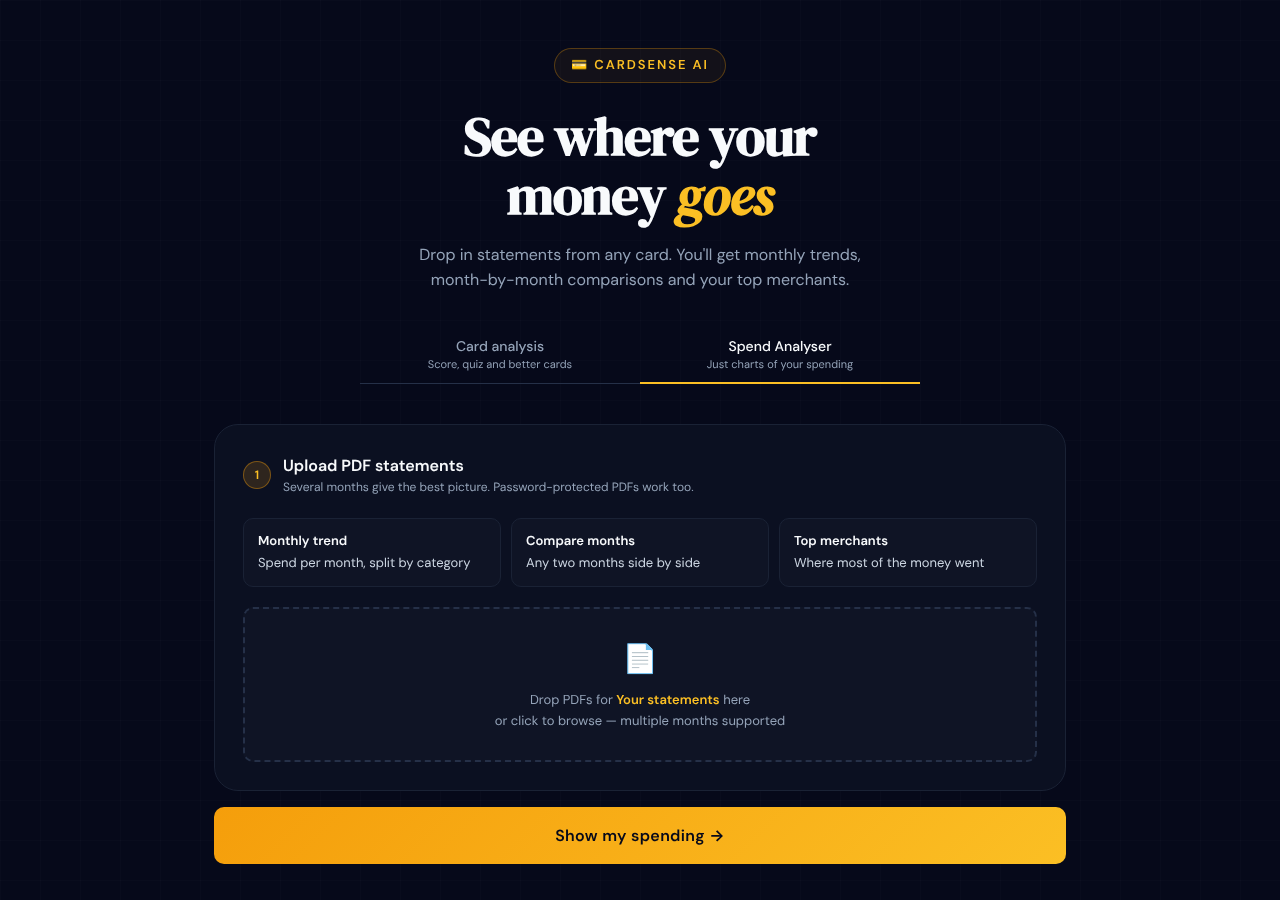
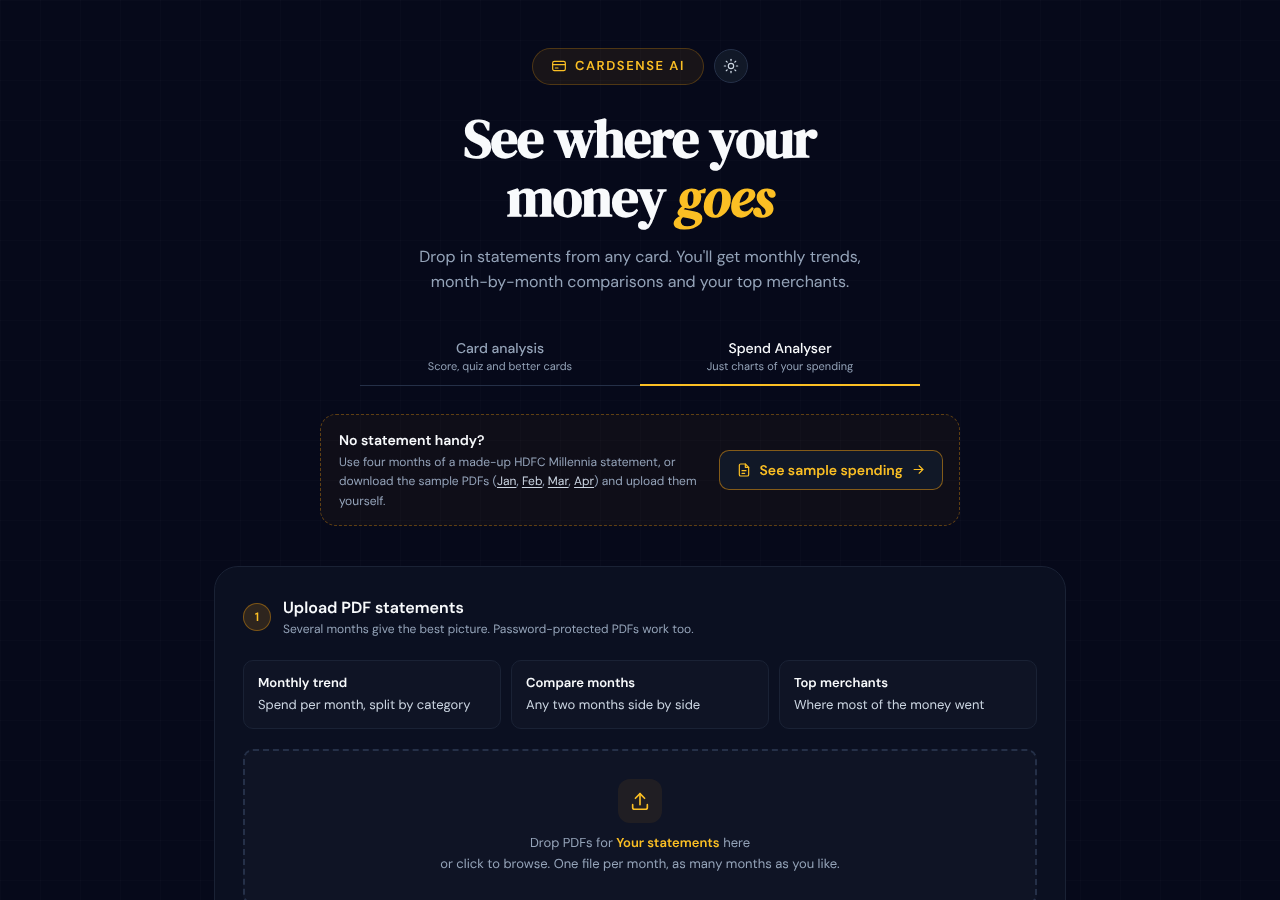
Refresh README demo GIF and screenshots for the new features

diff --git a/README.md b/README.md
@@ -12,11 +12,11 @@
 CardSense reads Indian credit card statement PDFs (including password-protected ones), extracts every transaction with an LLM, asks a few targeted questions about how you use the card, and scores your benefit utilization from 0 to 100. It then searches a database of cards by vector similarity and ranks better-fitting alternatives for your actual spending.
 
 <p align="center">
-  <img src="docs/demo.gif" alt="Demo: uploading four months of statements, answering the quiz, viewing results, switching to the Analyse spending tab, then using the standalone Spend Analyser" width="820">
+  <img src="docs/demo.gif" alt="Demo: starting from the built-in sample statements, a loading screen with a credit card fact, answering the quiz, the results with smart insights and the card comparison table, switching to light mode, and the Analyse spending tab" width="820">
 </p>
 
 <p align="center">
-  <img src="docs/screenshots/results.png" alt="Results page with Results and Analyse spending tabs: utilization score, cashback breakdown by category, and card recommendations" width="720">
+  <img src="docs/screenshots/results.png" alt="Results page: verdict headline, utilization score, smart insights and the cashback breakdown, with PDF report and theme buttons in the header" width="640">
 </p>
 
 > The demo and screenshots use generated sample statements, not real financial data.
@@ -62,6 +62,14 @@ The benchmark has already paid for itself: it caught long statements silently lo
 | Analyse spending tab | Standalone Spend Analyser |
 |---|---|
 | ![Analyse spending tab: monthly spend by category with a month selected for comparison](docs/screenshots/analyser.png) | ![Standalone Spend Analyser upload page, reached from the switch on the home page](docs/screenshots/spend.png) |
+
+| Your card vs the alternatives | Light mode |
+|---|---|
+| ![Comparison table: cashback per category for your card and three alternatives, with annual fees and net value per year](docs/screenshots/comparison.png) | ![Results page in light mode](docs/screenshots/light.png) |
+
+| PDF report | Loading screen |
+|---|---|
+| ![First page of the downloadable PDF report: verdict, headline numbers, insights and the comparison table](docs/screenshots/report.png) | ![Loading screen showing a "Did you know?" credit card fact](docs/screenshots/loader.png) |
 
 ## Architecture
 
